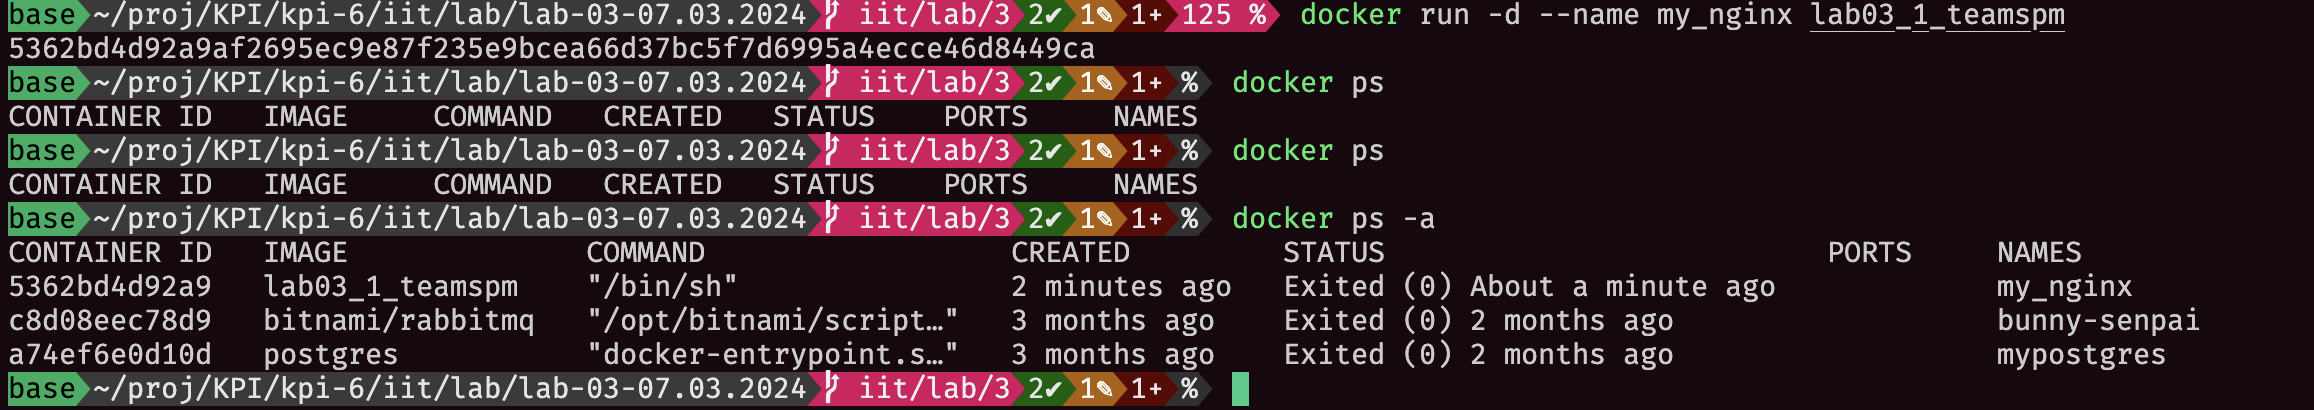
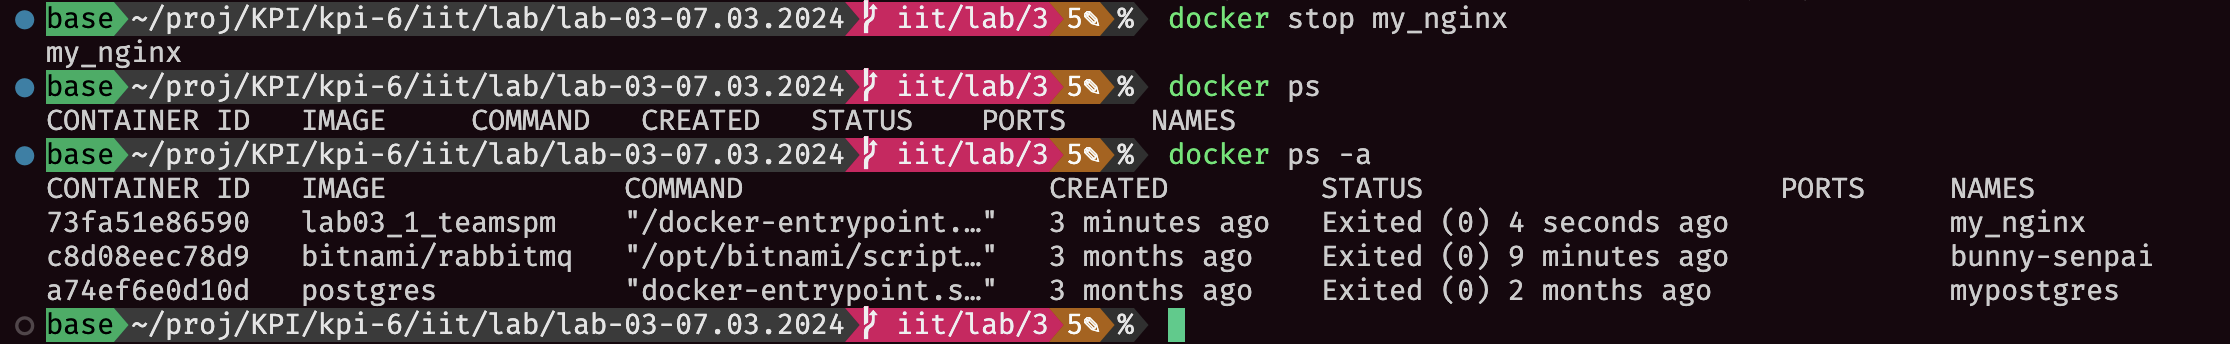
port forwarding

diff --git a/iit/lab/lab-03-07.03.2024/readme.md b/iit/lab/lab-03-07.03.2024/readme.md
@@ -13,7 +13,7 @@
 Тут доволі все просто... Все що треба зробити - один рядок у докерфайлі. Він повинен виглядати так
 
 ```Dockerfile
-FROM alpine:latest
+FROM nginx:alpine-perl
 ```
 
 Та щоб зробити та назвати його правильно, треба виконати команду `docker build -t lab03_1_teamspm .`
@@ -30,10 +30,20 @@ FROM alpine:latest
 
 Для запуску контейнеру за певним імеджем, можна використати `docker run -d --name my_nginx lab03_1_teamSPM` `-d` це в детач моді, щоб термінал не займав, та надати свою назву за допомогою `--name`, щоб потім не загубити його, та наостанок треба обрати імедж.
 
-Але в нас побачити імедж буде неможливо так, бо він одразу вийде, бо в нас не вказано що йому робити, переглянемо його за допомогою `docker ps -a` щоб побачити всі контейнери.
+Результат виконання можна переглянути на рисунку 1.
 
-![Рисунок 2 - Створення та перегляд контейнера](image-1.png)
+Щоб зупинити контейнер можна використати `docker stop my_nginx`.
 
-Щоб зупинити контейнер можна використати `docker stop my_nginx`. Протестуємо це на іншому контейнері, який не виходить одразу.
+Та щоб переглянути всі контейнери можна зробити `docker ps -a`
 
-![Рисунок 3 - Запуск та зупинка контейнера](image-2.png)
+![Рисунок 2 - Зупинка та пергляд всіх контейнерів](image-1.png)
+
+### Прокидання портів
+
+Щоб зайти на сторінку nginx, треба перейти на порт 80, але це в контейнері, щоб зайти на цю сторінку ззовні, треба прокинути порти, це можна зробити за допомогою флажочка `-p` щоб передати порти.
+
+Запустимо той самий імедж за допомогою нової команди `docker run -d -p 80:80 --name ported-nginx lab03_1_teamSPM`
+
+![Рисунок 3 - Сторінка nginx](image-2.png)
+
+![Рисунок 4 - Запущений контейнер](image-3.png)
